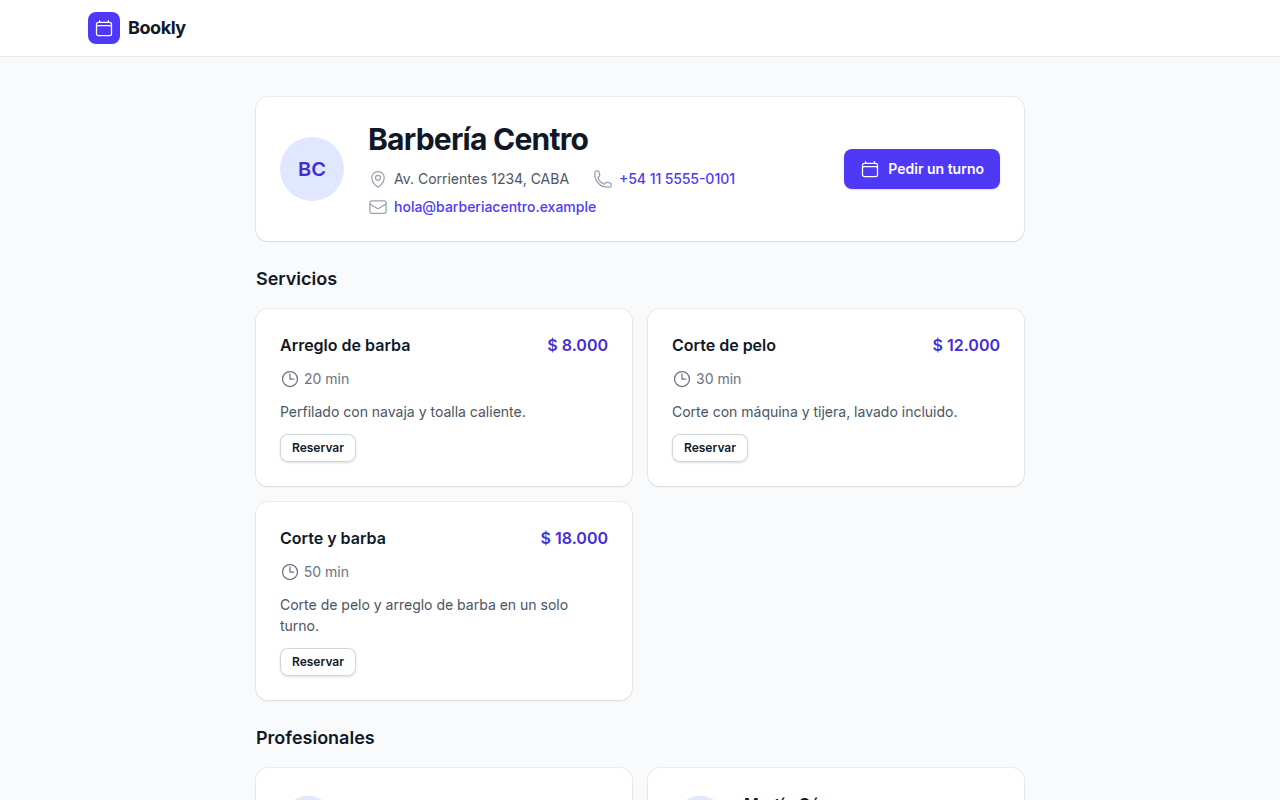
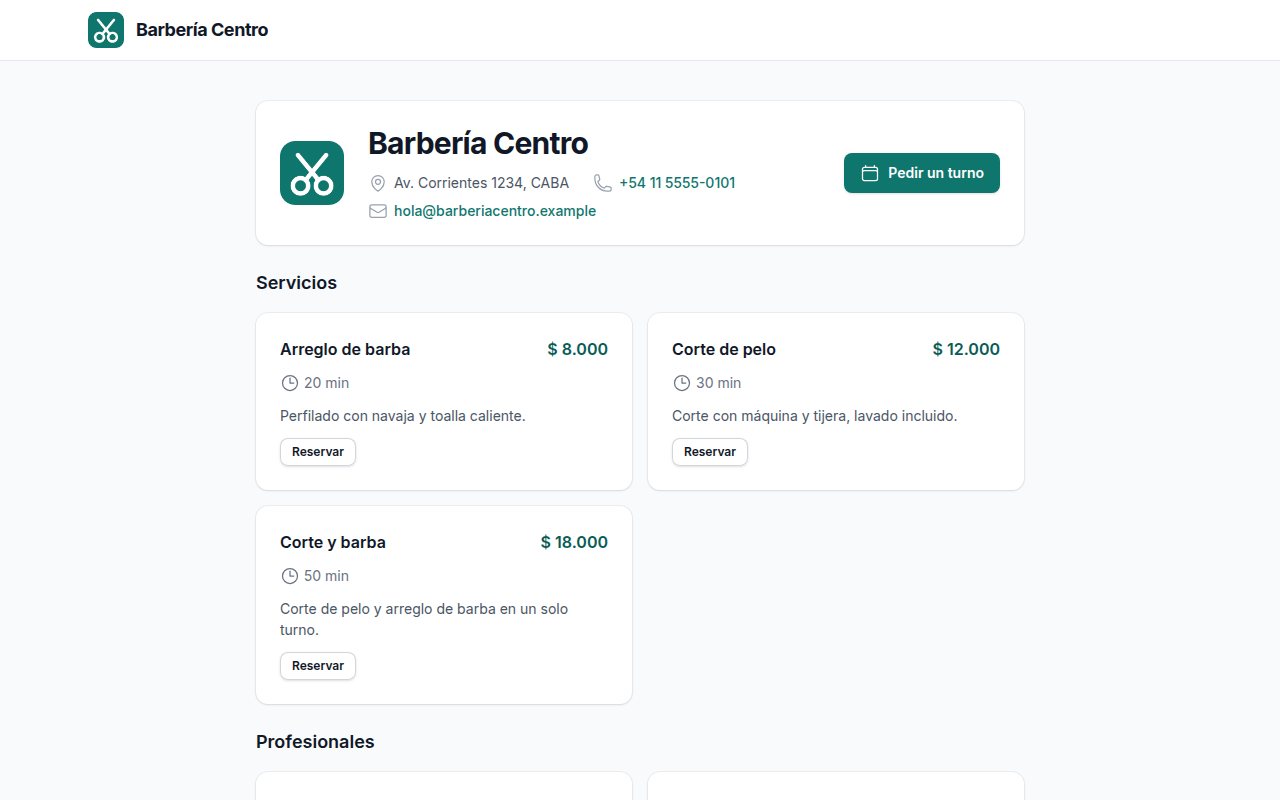
Document subdomains and branding, and seed each business's brand

diff --git a/db/seeds.rb b/db/seeds.rb
@@ -29,6 +29,18 @@ Business.find_or_create_by!(slug: "el-potrero") do |business|
   business.reminder_hours_before = 3
 end
 
+# Brands: a color each and a logo for two of them (db/seeds/logos), unless the
+# business already has its own.
+{ "barberia-centro" => [ "#0f766e", "barberia-centro.png" ],
+  "downtown-studio" => [ "#be185d", nil ],
+  "el-potrero" => [ "#15803d", "el-potrero.png" ] }.each do |slug, (color, logo)|
+  business = Business.find_by!(slug: slug)
+  business.update!(brand_color: color) if business.brand_color.nil?
+  if logo && !business.logo.attached?
+    business.logo.attach(io: Rails.root.join("db/seeds/logos", logo).open, filename: logo, content_type: "image/png")
+  end
+end
+
 # Users sign in with the password "password".
 def seed_member(business, role:, name:, email_address:)
   user = User.find_or_create_by!(email_address: email_address) do |new_user|

diff --git a/CLAUDE.md b/CLAUDE.md
@@ -6,7 +6,7 @@ This file provides guidance to Claude Code (claude.ai/code) when working with co
 
 Multi-tenant appointment booking app, built in stages. Done so far:
 
-- `Business` model (booking configuration, locale, time zone, active/suspended), tenant context (`Current.business`, `BusinessScoped`) and public business page at `/:business_slug`.
+- `Business` model (booking configuration, locale, time zone, active/suspended), tenant context (`Current.business`, `BusinessScoped`) and public business page (now on the business's subdomain).
 - Spanish/English i18n, with a language switcher on pages outside a business.
 - A shared UI layer (Tailwind theme, component classes, partials and three layouts) used by every page; see "UI conventions".
 - Users and authentication (Rails 8 generator), password reset, memberships with roles (`owner`/`admin`/`professional`), role changes and member removal, the business panel at `/:business_slug/admin`, and email invitations to join a business.
@@ -20,6 +20,7 @@ Multi-tenant appointment booking app, built in stages. Done so far:
 - Business sign up, the owner's setup assistant, the business's details in settings and the platform panel; see "Sign up, setup and platform panel". This completes the MVP.
 - Project documentation: the README (features, architecture, data model, design decisions, security, testing) with diagrams and screenshots in `doc/`; see "Documentation".
 - Business statistics in the panel, cached with Solid Cache; see "Statistics".
+- Public pages on each business's subdomain, and the business's brand (logo and color) on them and on customer emails; see "Routing" and "Branding".
 
 Owners sign up their business at `/signup`; everyone else joins a business by invitation.
 
@@ -41,7 +42,7 @@ bin/importmap audit            # JS dependency audit
 bin/ci                         # local CI pipeline defined in config/ci.rb
 ```
 
-Seeds (`bin/rails db:seed`) create three businesses (a barbershop, an English-speaking studio and a football court whose "professionals" are its pitches) with members, services, hours and appointments (plus, in Barbería Centro, a request about to expire, an appointment to mark attendance and a customer's pending change of time whenever there are none, and a rejected, a business-cancelled and an expired one for the email previews, plus the last 90 days of appointments with their history for the statistics, unless there are attended ones); every seeded user's password is `password`, and `admin@bookly.example` is a platform admin. Seeding emails nobody (`AppointmentNotifier.silence`). In development, sent emails are browsable at `/letter_opener`, and every email can be previewed with the seeded data at `/rails/mailers` (previews in `spec/mailers/previews`).
+Seeds (`bin/rails db:seed`) create three businesses (a barbershop, an English-speaking studio and a football court whose "professionals" are its pitches) with members, services, hours and appointments (plus, in Barbería Centro, a request about to expire, an appointment to mark attendance and a customer's pending change of time whenever there are none, and a rejected, a business-cancelled and an expired one for the email previews, plus the last 90 days of appointments with their history for the statistics, unless there are attended ones), and a brand color for each (logos from `db/seeds/logos` for Barbería Centro and El Potrero), unless they have their own; every seeded user's password is `password`, and `admin@bookly.example` is a platform admin. Seeding emails nobody (`AppointmentNotifier.silence`). In development, sent emails are browsable at `/letter_opener`, and every email can be previewed with the seeded data at `/rails/mailers` (previews in `spec/mailers/previews`).
 
 `bin/ci` (config/ci.rb) mirrors the GitHub workflow (.github/workflows/ci.yml): RuboCop, bundler-audit, importmap audit, Brakeman, and RSpec. The GitHub `test` job runs against a Postgres service via `DATABASE_URL`.
 
@@ -49,15 +50,16 @@ Seeds (`bin/rails db:seed`) create three businesses (a barbershop, an English-sp
 
 - The README is the project's documentation: features, architecture, data model, design decisions (multi-tenancy, availability and double booking, the appointment lifecycle, emails, live updates, time zones), security, testing and getting started. Update the parts a change touches, and the roadmap, with each stage.
 - `doc/architecture.svg` and `doc/class-diagram.svg` are hand-written SVG: edit the XML directly. Update the architecture for a new component, job, database or external service, and the class diagram for a new table, association, notable column or constraint. Check them rendered before committing: `google-chrome --headless=new --hide-scrollbars --window-size=1440,1300 --screenshot=/tmp/diagram.png file://$PWD/doc/class-diagram.svg`.
-- `doc/screenshots/` are taken from the seeded data, in Spanish, at 1280×800 (the phone one at 390×844, 2x), with headless Chrome. Retake the ones whose screen changes. Seed a scratch database for them, never the development one: `createdb`, then `DATABASE_URL=postgres:///<name> bin/rails db:schema:load:primary db:seed` and a server on another port with the same `DATABASE_URL`, then `dropdb`. Don't run `db:create`, `db:drop` or `db:schema:load` with only `DATABASE_URL`: it overrides the primary database alone, so they also act on `bookly_development_queue` and `_cable`.
+- `doc/screenshots/` are taken from the seeded data, in Spanish, at 1280×800 (the phone one at 390×844, 2x), with headless Chrome. Retake the ones whose screen changes. Seed a scratch database for them, never the development one: `createdb`, then `DATABASE_URL=postgres:///<name> bin/rails db:schema:load:primary db:seed` and a server on another port with the same `DATABASE_URL` (public pages at `http://<slug>.localhost:<port>`; emails link to port 3000, so point their images at that port), then `dropdb`. Don't run `db:create`, `db:drop` or `db:schema:load` with only `DATABASE_URL`: it overrides the primary database alone, so they also act on `bookly_development_queue` and `_cable`.
 
 ## Stack / architecture
 
 - **Database:** PostgreSQL (`bookly_development` / `bookly_test`, local socket, OS user). In production, Solid Cache/Queue/Cable each use a separate database (`bookly_production_cache`, `_queue`, `_cable`) with their own schemas in `db/*_schema.rb` and migration paths `db/{cache,queue,cable}_migrate`. Development does the same (`bookly_development_cache`, `_queue`, `_cable`); the test environment uses a single database with the `:test` job and cable adapters and a `:memory_store` cache (cleared before each example, `spec/support/cache.rb`).
 - **Background jobs, cache, websockets:** Solid Queue, Solid Cache, Solid Cable (DB-backed; no Redis). Jobs run in `bin/jobs` (started by `bin/dev`); recurring ones are scheduled in `config/recurring.yml`. In development the cache is Solid Cache only while `bin/rails dev:cache` has it on, `:null_store` otherwise (nothing cached, rate limits don't count). Solid Cable writes broadcasts from a background thread in batches, so a short-lived process (`bin/rails runner`) may exit before they're written; the web server and `bin/jobs` are fine.
+- **Hosts:** `config.x.app_host` is the app's domain (`BOOKLY_HOST`; `localhost` in development, `example.com` in test) and `action_dispatch.tld_length` follows it, so `request.subdomain` is a business's slug. Businesses' public pages are on its subdomains (`barberia-centro.localhost:3000`; browsers resolve `*.localhost`), everything else on the domain itself. Production only accepts those hosts (`config.hosts`).
 - **Frontend:** Hotwire (Turbo + Stimulus) via importmap — no Node/bundler. Stimulus controllers in `app/javascript/controllers` are auto-pinned. Add JS packages with `bin/importmap pin <pkg>`.
 - **CSS:** Tailwind 4 via `tailwindcss-rails`; source is `app/assets/tailwind/application.css`, compiled to `app/assets/builds/` (gitignored). Only classes found in views/helpers end up in the build, so keep `bin/dev` running (or `bin/rails tailwindcss:build`) after adding classes. Assets served by Propshaft.
-- **Testing:** RSpec (`spec/`) with FactoryBot; Minitest railtie is disabled and system test generation is turned off. Transactional fixtures are on. `FactoryBot::Syntax::Methods` is included (call `create`/`build` directly). Specs run in random order; `spec/examples.txt` persists status for `--only-failures`. Spec type is declared explicitly (`type: :request`, `type: :controller`); it is not inferred from the folder. `ActiveSupport::Testing::TimeHelpers` (`freeze_time`, `travel_to`) is included, and `spec/support/**` is auto-loaded. Request specs sign in with `sign_in_as(user)` (password `"password"`, the factory default).
+- **Testing:** RSpec (`spec/`) with FactoryBot; Minitest railtie is disabled and system test generation is turned off. Transactional fixtures are on. `FactoryBot::Syntax::Methods` is included (call `create`/`build` directly). Specs run in random order; `spec/examples.txt` persists status for `--only-failures`. Spec type is declared explicitly (`type: :request`, `type: :controller`); it is not inferred from the folder. `ActiveSupport::Testing::TimeHelpers` (`freeze_time`, `travel_to`) is included, and `spec/support/**` is auto-loaded. Request specs sign in with `sign_in_as(user)` (password `"password"`, the factory default). They run on `www.example.com` (the app's domain); specs of a business's public pages switch to its host first with `use_business_host(business)` (`spec/support/business_host_helpers.rb`) and call the public route helpers without the business.
 - **i18n:** `es` (default) and `en`. Translations live in `config/locales/{es,en}/` — `app.yml`, `models/<model>.yml`, `views/<controller>.yml` (namespaced controllers in `views/admin/` and `views/platform/`), `mailers/<mailer>.yml` — and every user-facing string (views, mailers, validation messages, flash) goes through `t()`. Missing translations raise in development and test, and `spec/config/i18n_spec.rb` fails if `es` and `en` don't define the same keys. Enum values are translated as attributes (`membership/role`) and read with `Model.human_attribute_name("role.#{value}")`.
 - **Locale selection:** pages tied to a business (public page, panel, invitation) use the business's locale. Everywhere else `SetLocale` picks the language switcher's choice (`locale` cookie, set by `PATCH /locale`), then the browser's `Accept-Language`, then `es`. The switcher shows where `locale_switchable?` is true. Emails about a business are rendered in its locale: `BusinessMailer` sets it (invitations use `I18n.with_locale(business.locale)`).
 - **Deployment:** Kamal (`config/deploy.yml`, `.kamal/secrets`) building the `Dockerfile`, served through Thruster. `RAILS_MASTER_KEY` is read from `config/master.key` (gitignored); production DB password comes from `BOOKLY_DATABASE_PASSWORD`.
@@ -66,7 +68,7 @@ Seeds (`bin/rails db:seed`) create three businesses (a barbershop, an English-sp
 
 Every page is built from the shared pieces below; don't hand-roll styles that already exist, and don't ship bare pages (use cards, page headers and empty states).
 
-- **Theme** (`@theme` in `app/assets/tailwind/application.css`): `brand-50…900` (indigo) for anything branded, Inter as `font-sans`, `shadow-card`. Use `brand-*`, not raw `indigo-*`, so the theme changes in one place. Light gray page background, white cards.
+- **Theme** (`@theme` in `app/assets/tailwind/application.css`): `brand-50…900` (indigo) for anything branded, Inter as `font-sans`, `shadow-card`. Use `brand-*`, not raw `indigo-*`, so the theme changes in one place and public pages take the business's color (see "Branding"). Light gray page background, white cards.
 - **Component classes** (declared with `@utility`, so they compose and take variants like `sm:`):
   - Buttons: `btn-primary`, `btn-secondary`, `btn-danger`, `btn-ghost`; modifiers `btn-sm`, `btn-block`. Destructive inline actions: `btn-ghost btn-sm text-red-600 hover:bg-red-50`.
   - Forms: wrap each field in `.field`, with `.label`, `.input` (also for `select`) and `.hint`. Forms sit in a `card card-body space-y-5`; actions go right-aligned at the bottom.
@@ -129,17 +131,17 @@ Every page is built from the shared pieces below; don't hand-roll styles that al
 - `Availability.new(service, professional: nil, except: nil, now:)` computes free start times in the current business: `days(dates)` returns `{ date => [Slot(starts_at, professionals)] }` for the days within the booking window. Start times are counted from the start of each working range every `slot_interval_minutes`; the service must fit in the range (its break may run past it), can't overlap a block, and service plus break can't overlap an active appointment's time plus break. From now plus `min_booking_notice_hours` up to `booking_horizon_days` from today. Without a professional it means "any": each slot lists who is free. Three queries per call, whatever the range. `slot_at(starts_at)` is the free slot at a start time (or nil); `candidates(starts_at)` who is free then, the least busy that day first; `except:` leaves an appointment's own time out (the one a customer is moving).
 - `Customer#busy_during?(range, except:)`: whether the customer has an active appointment overlapping the range (a customer can't be in two places at once).
 - Business settings are read from `Current.business` (`Current.business!`), not from a record's cached `business` association, so they're always current and it fails closed.
-- Settings (owner only) has two tabs (`admin/settings/_tabs`): the business's details (`Admin::BusinessesController`: name, contact, address, time zone, language, currency; not the slug, which customers' links depend on) and the booking rules (`Admin::SettingsController`: the six rules and the reminder, `reminder_hours_before`, capped by `Business::BOOKING_LIMITS`). The sidebar's settings link opens the first.
+- Settings (owner only) has three tabs (`admin/settings/_tabs`): the business's details (`Admin::BusinessesController`: name, contact, address, time zone, language, currency; not the slug, which customers' links depend on), the booking rules (`Admin::SettingsController`: the six rules and the reminder, `reminder_hours_before`, capped by `Business::BOOKING_LIMITS`) and the brand (`Admin::BrandingsController`, see "Branding"). The sidebar's settings link opens the first.
 - Availability preview (`Admin::AvailabilitiesController`): owners and admins pick a service and a professional (or any); professionals see their own. Days without free times say why. The week is the `availabilities/_week` partial (`slot_url:` makes each time a link, `show_professionals: false` hides who is free); `availabilities/_week_navigation` (the booking window's limits and the empty week notice, around the generic `shared/_week_navigation`) and the `AvailabilityWeek` concern (`load_availability_week`) handle moving between weeks, for the panel and the public flow.
 - `AppointmentEvent`: an appointment's history, one row per status change (none as `from_status` on creation), with the actor (`customer`, `user` with `actor_user`, or `system`), an optional `note` and `metadata`. Read only once saved; `appointment.events` is chronological. Record one for every transition.
 - `appointments_helper#appointment_status_badge` shows a status with its badge color; `appointment_event_title` and `appointment_event_actor` describe a history entry.
 
 ## Public booking
 
-- `BookingsController` (`/:business_slug/book`, public): one step at a time, service → professional ("any" or one; skipped when a single one offers the service) → time → contact details. The choices travel in the URL (`service_id`, `professional_id`, `starts_at` in ISO 8601, `week`); anything invalid, not bookable, from another business or no longer free sends the customer back to the step that needs it. The public page links into it per service and per professional.
+- `BookingsController` (`/book` on the business's subdomain, public): one step at a time, service → professional ("any" or one; skipped when a single one offers the service) → time → contact details. The choices travel in the URL (`service_id`, `professional_id`, `starts_at` in ISO 8601, `week`); anything invalid, not bookable, from another business or no longer free sends the customer back to the step that needs it. The public page links into it per service and per professional.
 - `AppointmentRequest` (form object) sends the request in its own transaction (`requires_new`): checks the slot again against `Availability`, finds the customer by email (updating name and phone; a blank phone keeps the old one), rejects a customer's overlapping active appointment, creates the pending appointment and its creation event. With "any professional" it assigns the free one with the fewest active appointments that day (then by name), sets `any_professional`, and tries the next one if the database rejects the first (`slot_taken?` when none is left).
-- `POST /:business_slug/book` is rate limited per IP (10 every 10 minutes). The test cache is a memory store cleared before each example, so rate limits can be tested.
-- `Appointment` has `generates_token_for :management` with no embedded data: the customer's personal link stays valid for the appointment's whole life. `AppointmentsController#show` (`/:business_slug/appointments/:token`, public, `noindex`) finds it within the current business (404 otherwise) and shows its status, details, the business's reason when it rejected or cancelled it, a note when it was reassigned, the change of time it waits for, what the customer can still do, and the business's contact.
+- `POST /book` is rate limited per IP (10 every 10 minutes). The test cache is a memory store cleared before each example, so rate limits can be tested.
+- `Appointment` has `generates_token_for :management` with no embedded data: the customer's personal link stays valid for the appointment's whole life. `AppointmentsController#show` (`/appointments/:token` on the business's subdomain, public, `noindex`) finds it within the current business (404 otherwise) and shows its status, details, the business's reason when it rejected or cancelled it, a note when it was reassigned, the change of time it waits for, what the customer can still do, and the business's contact.
 - The time step refreshes itself when an appointment changes, so a time someone else takes disappears (see "Live updates").
 
 ## Appointment management by link
@@ -172,7 +174,7 @@ Every page is built from the shared pieces below; don't hand-roll styles that al
 - `AppointmentEvent` runs `AppointmentNotifier` after commit, so every transition (panel, customer, `ExpireRequestsJob`) emails the right people, nothing goes out for a rolled back change, and mails are delivered by a job (`deliver_later`). `AppointmentNotifier.silence { ... }` turns it off (seeds).
 - `CustomerAppointmentsMailer` (the customer, with their personal link): `requested`, `confirmed`, `rejected` and `cancelled` (with the business's reason; the customer's own cancellation is a receipt, without their reason), `expired`, `rescheduled`, `reassigned` and `reminder`. Not attendance. They share one template (`appointment`): each action sets `@body`, `@reason`, `@button` and `@footer`. Ended appointments offer booking the same service again.
 - `TeamAppointmentsMailer`, only for what customers do: `new_request`, `customer_rescheduled` and `customer_cancelled`, one email per `Appointment#team_recipients` (the professional's user, the owner and the admins, each once), linking to the panel; replies go to the customer. What the team does in the panel emails nobody on the team: they see it live.
-- `.ics` (`AppointmentCalendar`, `icalendar` gem): times in UTC, a fixed `UID` per appointment and `SEQUENCE` = its number of events, so newer files update the event; `cancelled: true` makes a `METHOD:CANCEL`. Attached to `confirmed`, `reminder` and `reassigned` (when confirmed), and as a cancellation to `cancelled` (of a confirmed appointment) and `rescheduled`. Customers download it from `/:business_slug/appointments/:token.ics` (confirmed only, 404 otherwise; `text/calendar` is registered as `:ics`).
+- `.ics` (`AppointmentCalendar`, `icalendar` gem): times in UTC, a fixed `UID` per appointment and `SEQUENCE` = its number of events, so newer files update the event; `cancelled: true` makes a `METHOD:CANCEL`. Attached to `confirmed`, `reminder` and `reassigned` (when confirmed), and as a cancellation to `cancelled` (of a confirmed appointment) and `rescheduled`. Customers download it from `/appointments/:token.ics` (confirmed only, 404 otherwise; `text/calendar` is registered as `:ics`).
 - Reminders: `SendRemindersJob` runs every 5 minutes and emails `Appointment.due_for_reminder` (confirmed, not started, in active businesses with `reminder_hours_before` > 0, once that many hours before the start), marking `reminder_sent_at` with a conditional update first so a reminder is never sent twice. An appointment confirmed after its reminder was due gets none (the confirmation just told the customer); `reschedule!` clears `reminder_sent_at`. The `reminder` email isn't sent if the appointment stopped being confirmed meanwhile.
 
 ## Sign up, setup and platform panel
@@ -188,6 +190,13 @@ Every page is built from the shared pieces below; don't hand-roll styles that al
 - `BusinessStats.new(membership, period).to_h` returns plain values (no records, so it can be cached): `outcomes` (every status), `no_show_rate`, `revenue_cents` (copied prices of attended appointments), `top_services`, `occupancy` (booked minutes of `on_agenda` appointments against the current weekly hours on each day, less blocks; managers see active professionals and anyone with appointments in the period), `peak_hours` (`{ [wday, hour] => count }` in the business's zone), `customers` (`new` when their first booked appointment is in the period) and `response_time` (median seconds from becoming pending to the team's confirm or reject, from `AppointmentEvent`; reassignments don't restart it). Everything comes from `Membership#visible_appointments`, and appointments belong to the period they start in. Each number is an aggregate query: keep it that way, no loading records into Ruby.
 - `BusinessStats.fetch(membership, period)` reads it through `Rails.cache`, adding `calculated_at`. The key is the business, the period's `cache_key`, the viewer (managers share one entry, each professional their own) and `BusinessStats::VERSION`: bump it when `to_h` changes shape. No invalidation on changes: entries expire (`CURRENT_PERIOD_EXPIRES_IN` 10 minutes, `CLOSED_PERIOD_EXPIRES_IN` a day).
 
+## Branding
+
+- A business's brand is `brand_color` (`#rrggbb`, lowercase, nil for Bookly's; validated by format, by a check constraint and by `BrandColor#readable_with_white_text?`: at least 4.5:1 against white, since buttons have white text) and a `logo` attachment (JPG/PNG/WebP up to `Business::LOGO_MAX_SIZE`, never SVG). `BrandColor::DEFAULT` is Bookly's indigo.
+- Edited in the settings' brand tab (`Admin::BrandingsController`, owner only; `remove_logo` drops the logo unless a new one comes too), with a live preview (`brand-preview` Stimulus controller).
+- Public pages: the `application` layout puts `brand_style_tag(branded_business)` (`BrandingHelper`) in the head, which overrides the `--color-brand-*` theme variables: the color itself as `brand-600` and `color-mix()` shades for the rest. So keep using `brand-*` utilities on public pages; raw colors won't follow the brand. The header shows the business's logo and name (`layouts/shared/_business_logo`). `branded_business` is the current business only while it's active; the panel never takes the brand.
+- Emails: `CustomerAppointmentsMailer` sets `@branded_business`, so the `mailer` layout shows its logo (absolute blob URL) and name, and `email_button`/`email_brand_color` (`MailerHelper`) its color. Other mailers keep Bookly's.
+
 ## Multi-tenancy
 
 Single database, shared tables: every per-business table has a `business_id`, and the current tenant lives in `Current.business`.
@@ -202,7 +211,8 @@ Single database, shared tables: every per-business table has a `business_id`, an
 
 ## Routing
 
-- `/` is the landing page (`HomeController`). Global app routes (`/session`, `/passwords`, `/locale`, `/dashboard`, `/invitations`, `/signup`, `/platform`, `/letter_opener` in development) come before the business scope. Public business pages live under `scope ":business_slug"` at the end of `config/routes.rb`, constrained by `Business::SLUG_FORMAT`.
-- Controllers under that scope `include SetCurrentBusiness`: it resolves the business from the slug (404 if unknown), sets `Current.business`, wraps the request in the business's locale and time zone, and renders `businesses/unavailable` (503, always with the public layout) for suspended businesses.
-- Any new top-level path must be added to `Business::RESERVED_SLUGS` so no business can take it as a slug.
+- Two host blocks in `config/routes.rb`. A business's public pages (`/`, `/book`, `/appointments/:token...`) are constrained to its subdomain (`Business.subdomain?`: a valid slug that isn't reserved; whether the business exists is checked later). Everything else is constrained to the app's domain, with or without `www`: `/` is the landing page (`HomeController`), then the global app routes (`/session`, `/passwords`, `/locale`, `/dashboard`, `/invitations`, `/signup`, `/platform`, `/letter_opener` in development), and last `scope ":business_slug"` (constrained by `Business::SLUG_FORMAT`) with the panel and the old public paths, which redirect (301, keeping the query) to the subdomain. Sign in and the panel never answer on a business's subdomain, so the session cookie stays on one host.
+- Links to public pages from another host (the panel, the platform, emails) use `_url` helpers with `public_url_options(business)` (`PublicUrlsHelper`: the subdomain, and clears the panel's `business_slug` default, which would otherwise become a query parameter). On the public pages themselves, plain `_path` helpers.
+- Controllers serving them `include SetCurrentBusiness`: it resolves the business from the panel's `business_slug` or the host's subdomain (404 if unknown), sets `Current.business`, wraps the request in the business's locale and time zone, and renders `businesses/unavailable` (503, always with the public layout) for suspended businesses.
+- `Business::RESERVED_SLUGS` covers the app's top-level paths and the subdomains the domain needs (`www`, `mail`, `app`, ...): add any new top-level path or reserved subdomain there so no business can take it as a slug.
 - Times are stored in UTC and displayed in the business time zone (`Time.zone` is the business's inside a request; the app default is UTC).

diff --git a/README.md b/README.md
@@ -4,7 +4,7 @@ Online appointment booking for businesses that work by schedule: barbershops, cl
 
 Built with Rails 8.1, Ruby 3.4, PostgreSQL, Hotwire and Tailwind 4. No Node, no Redis.
 
-![Booking an appointment: the week of free times for a haircut with any professional](doc/screenshots/booking-times.png)
+![Booking an appointment on the barbershop's subdomain: the week of free times for a haircut with any professional, in its colors](doc/screenshots/booking-times.png)
 
 ## Table of Contents
 
@@ -14,6 +14,7 @@ Built with Rails 8.1, Ruby 3.4, PostgreSQL, Hotwire and Tailwind 4. No Node, no 
 - [Data model](#data-model)
 - [Design decisions](#design-decisions)
   - [Multi-tenancy](#multi-tenancy)
+  - [Subdomains and branding](#subdomains-and-branding)
   - [Availability and double booking](#availability-and-double-booking)
   - [Appointment lifecycle](#appointment-lifecycle)
   - [Emails, calendar files and reminders](#emails-calendar-files-and-reminders)
@@ -30,7 +31,7 @@ Built with Rails 8.1, Ruby 3.4, PostgreSQL, Hotwire and Tailwind 4. No Node, no 
 
 **For customers** (no account needed)
 
-- **Booking in four steps** from the business's page: service, professional (or "any"), a free time and contact details. With "any professional" the least busy free one is assigned. The request holds the time until the business answers.
+- **Booking in four steps** from the business's page, on its own subdomain and with its logo and color: service, professional (or "any"), a free time and contact details. With "any professional" the least busy free one is assigned. The request holds the time until the business answers.
 - **A personal link** to follow the appointment: its status, the business's reason if it was rejected or cancelled, a calendar file once it's confirmed, and the business's contact. The page updates by itself when the business answers.
 - **Cancel or reschedule** a confirmed appointment, or withdraw a request, until the business's cancellation window closes. Rescheduling frees the old time at once and waits for the business's confirmation again.
 - **Emails for every change** (request received, confirmed, rejected, cancelled, expired, moved to another professional, change of time received) and a reminder before the appointment, with `.ics` files that keep the customer's calendar up to date.
@@ -44,7 +45,8 @@ Built with Rails 8.1, Ruby 3.4, PostgreSQL, Hotwire and Tailwind 4. No Node, no 
 - **Services and professionals:** duration, price, optional break and rich text description; profiles with photo, offered services and an optional linked account. Neither is ever deleted, only deactivated.
 - **Weekly hours and blocks:** several ranges per day, and blocks for vacations or errands (exact times or whole days).
 - **Team and roles:** the owner invites admins and professionals by email (single use links, valid for 7 days), changes their roles and removes them. Owners and admins manage everything; professionals answer and manage their own appointments.
-- **Settings:** the business's details (name, contact, address, time zone, language, currency) and its booking rules: start interval, break between appointments, minimum notice, booking horizon, request expiration, cancellation window and reminder.
+- **Their own address and brand:** each business's page lives on its subdomain (`barberia-centro.<domain>`), and its logo and color dress its public pages and the emails its customers get.
+- **Settings:** the business's details (name, contact, address, time zone, language, currency), its booking rules (start interval, break between appointments, minimum notice, booking horizon, request expiration, cancellation window and reminder) and its brand (logo and color, with a live preview).
 - **Emails to the team** when customers request, reschedule or cancel; replies go straight to the customer.
 
 **For the platform**
@@ -60,16 +62,20 @@ Built with Rails 8.1, Ruby 3.4, PostgreSQL, Hotwire and Tailwind 4. No Node, no 
 
 | | |
 |---|---|
-| ![The business's public page, with its services and prices](doc/screenshots/business-page.png) | ![The panel's home: pending requests, one of them a change of time, and today's appointments](doc/screenshots/panel-dashboard.png) |
-| **Public page:** services, prices and the business's contact | **Panel home:** requests waiting for an answer and today's appointments |
+| ![The business's public page, with its logo, its color, its services and prices](doc/screenshots/business-page.png) | ![The panel's home: pending requests, one of them a change of time, and today's appointments](doc/screenshots/panel-dashboard.png) |
+| **Public page** on the business's subdomain, with its logo and color | **Panel home:** requests waiting for an answer and today's appointments |
 | ![The weekly agenda with pending and confirmed appointments](doc/screenshots/panel-agenda.png) | ![The setup assistant asking who takes the appointments](doc/screenshots/setup-assistant.png) |
 | **Agenda:** the week, by professional or of everyone, refreshing live | **Setup assistant:** from sign up to a bookable page |
-| ![A confirmed appointment on a phone, with the add to calendar button](doc/screenshots/customer-appointment-mobile.png) | ![The confirmation email of a football court booking](doc/screenshots/email-confirmed.png) |
-| **The customer's link** on a phone: status, details, calendar file, cancel or reschedule | **Confirmation email** in the business's name, with the `.ics` attached |
+| ![A confirmed appointment on a phone, with the add to calendar button](doc/screenshots/customer-appointment-mobile.png) | ![The confirmation email of a football court booking, with its logo and color](doc/screenshots/email-confirmed.png) |
+| **The customer's link** on a phone: status, details, calendar file, cancel or reschedule | **Confirmation email** in the business's name and brand, with the `.ics` attached |
 
 ![The statistics page: attended appointments, revenue, no-shows, response time, appointments by status and each professional's occupancy](doc/screenshots/panel-statistics.png)
 
 **Statistics:** the month's numbers for the whole business, from the cache
+
+![The brand settings: logo, color picker and a preview of the business's header and a button](doc/screenshots/panel-branding.png)
+
+**Brand:** the logo and color, previewed as they're edited
 
 ![The platform panel listing every business with its owner, members and appointments](doc/screenshots/platform.png)
 
@@ -79,8 +85,8 @@ Built with Rails 8.1, Ruby 3.4, PostgreSQL, Hotwire and Tailwind 4. No Node, no 
 
 Bookly is a single Rails app rendering HTML. Hotwire does the rest on the client: Turbo Drive for navigation and forms, Turbo 8 page refreshes for live updates and a few Stimulus controllers.
 
-- **Three areas, one app.** Public pages live under `/:business_slug` (the business page, the booking steps, the customer's link), the business panel under `/:business_slug/admin`, and the platform panel under `/platform`. Global routes (`/session`, `/signup`, `/dashboard`, ...) come first, and their names are reserved so no business can take them as a slug.
-- **The tenant comes from the URL.** `SetCurrentBusiness` finds the business by its slug, sets `Current.business` and wraps the request in its language and time zone. Every per-business model includes `BusinessScoped`, which filters each query by the current business and fails closed: with no business set, a query raises instead of returning everyone's rows.
+- **Three areas, one app.** Public pages live on the business's subdomain (`barberia-centro.<domain>`: the business page, the booking steps, the customer's link); everything else on the app's own domain: the business panel under `/:business_slug/admin`, the platform panel under `/platform` and the global routes (`/session`, `/signup`, `/dashboard`, ...), whose names are reserved so no business can take them as a slug.
+- **The tenant comes from the host or the URL.** `SetCurrentBusiness` finds the business by the subdomain (public pages) or the panel's slug, sets `Current.business` and wraps the request in its language and time zone. Every per-business model includes `BusinessScoped`, which filters each query by the current business and fails closed: with no business set, a query raises instead of returning everyone's rows.
 - **Domain logic in models and form objects.** `Availability` computes free times; `Appointment` owns its transitions (each one locks the row, checks the status, saves and records an `AppointmentEvent` in one transaction); form objects (`AppointmentRequest`, `AppointmentReschedule`, `BusinessRegistration`, `SetupHours`) handle what spans several records.
 - **Side effects after commit.** An `AppointmentEvent` notifies the right people when its transaction commits, and an appointment broadcasts a refresh. A rolled back change emails nobody and refreshes nothing.
 - **Solid Queue, Solid Cable and Solid Cache** replace Redis: jobs, websocket messages and cache live in their own PostgreSQL databases. `bin/jobs` runs the job workers and two recurring jobs: `ExpireRequestsJob` every minute and `SendRemindersJob` every five minutes. The cache holds the statistics and the rate limits' counters.
@@ -106,9 +112,15 @@ One database with shared tables, a `business_id` on every per-business row, and 
 
 1. **Queries:** `BusinessScoped` filters by the current business and assigns it to new records. It fails closed (`Current::MissingBusiness`), also through associations, so a job or console session that forgets to set the tenant breaks loudly instead of touching every business.
 2. **Database:** composite foreign keys make mixed rows impossible, whatever the code does.
-3. **Requests:** the business comes from the URL, never from a parameter; panel queries also go through the member's permissions (`Membership#visible_appointments`), and anything outside them is a 404.
+3. **Requests:** the business comes from the host or the path, never from a parameter; panel queries also go through the member's permissions (`Membership#visible_appointments`), and anything outside them is a 404.
 
 Code that legitimately spans businesses (the expiration and reminder jobs, the platform panel) opts out explicitly with `BusinessScoped.across_businesses { ... }`, so cross-tenant access stays greppable. A schema-per-business version is on the roadmap as a comparative exercise.
+
+### Subdomains and branding
+
+A business's public pages are served from its subdomain, so its customers get an address of its own. Two route blocks split the hosts: one constrained to subdomains that could be a business's (a valid slug that isn't reserved: `www`, `mail`, `admin`, ...) and one to the app's own domain. Only the public pages moved; the panel stays on the app's domain at `/:business_slug/admin`, so the session cookie lives on a single host and is never shared with pages a business's customers visit. The old `/:business_slug/...` paths, which emails already sent still link to, redirect permanently to the same page on the subdomain. The domain comes from `BOOKLY_HOST` (`*.localhost` in development, which browsers resolve on their own), and links to a public page from another host (the panel, the platform, emails) add the subdomain with `public_url_options(business)`.
+
+The brand is a logo and one color. The color replaces the theme's `brand-*` scale on the business's pages: Tailwind's utilities read it from CSS variables, so the layout sets the color itself as `brand-600` and derives lighter and darker shades with `color-mix()`, and every existing button, link and badge follows without touching a view. Buttons carry white text, so the color must contrast with white at least 4.5:1 (WCAG AA), checked when it's saved. Customer emails take the logo and the color in inline styles; the panel and the team's emails keep Bookly's. Custom domains (`turnos.mibarberia.com`) are left for after deployment, since they need a certificate per domain and DNS verification.
 
 ### Availability and double booking
 
@@ -158,19 +170,22 @@ Instants are stored in UTC and shown in the business's time zone; inside a reque
 
 ## Security
 
-- **Authentication** comes from the Rails 8 generator: bcrypt passwords, a signed, `httponly` session cookie and password reset by email. Authentication is required by default; public controllers opt out explicitly.
+- **Authentication** comes from the Rails 8 generator: bcrypt passwords, a signed, `httponly` session cookie and password reset by email. Sign in and the panel only answer on the app's own domain, so the cookie is never sent to a business's subdomain. Authentication is required by default; public controllers opt out explicitly.
 - **Access is checked per area.** Non-members get a 404 from a business's panel, and anyone without `platform_admin` gets a 404 from `/platform`, so neither reveals what exists. Inside the panel, owner and manager actions are guarded per action, and professionals only see their own appointments.
 - **Tokens instead of stored secrets.** Invitation and appointment links use `generates_token_for`: invitations embed their acceptance and expiration, so a link works once and resending voids the previous one; nothing reusable is stored in the database.
 - **Rate limits** per IP on sign in, password reset, sign up, booking, cancelling and rescheduling.
 - **The customer's pages** aren't indexed by search engines (`noindex`), and websocket streams only accept signed names.
+- **Uploads** are limited by type and size: photos and logos are JPG, PNG or WebP, never SVG, which can carry scripts. Brand colors are validated as `#rrggbb` (and by a check constraint) before they're written into a page's CSS.
+- **Hosts:** in production, only the app's domain and its subdomains are accepted (`config.hosts`).
 - **The database enforces the invariants** the code relies on: composite foreign keys between businesses, exclusion constraints against double booking and check constraints mirroring the validations.
 - **CI** runs Brakeman, bundler-audit and importmap audit on every push.
 
 ## Testing
 
-- **RSpec** with FactoryBot: about 830 examples covering models, form objects, jobs, mailers, helpers and requests. Request specs exercise the full stack (routing, tenancy, permissions, rendering) against a real PostgreSQL database, with no mocks of the database: the exclusion and check constraints are tested too.
+- **RSpec** with FactoryBot: about 870 examples covering models, form objects, jobs, mailers, helpers and requests. Request specs exercise the full stack (routing, tenancy, permissions, rendering) against a real PostgreSQL database, with no mocks of the database: the exclusion and check constraints are tested too.
 - **Time is frozen** (`travel_to`) wherever the result depends on it: availability, expiration, reminders, the agenda, the statistics' periods.
 - **The statistics** are tested metric by metric against hand-built histories (the period's edges in the business's time zone, prices copied at booking, reassignments that don't restart the response clock), and their cache by its hits, its expirations and the entries each member and business gets.
+- **Hosts** are tested explicitly: what each one serves (a business's subdomain, the app's domain with or without `www`, reserved and unknown subdomains) and the old paths' redirects.
 - **Live updates** are tested by checking which signed streams each page subscribes to, and the broadcasts each change makes.
 - **Emails** are tested in both languages and time zones, including their `.ics` attachments, and every email has a preview at `/rails/mailers` built from the seeded data.
 - **CI** (GitHub Actions, mirrored locally by `bin/ci`) runs RuboCop, the three audits and the suite.
@@ -183,7 +198,7 @@ Instants are stored in UTC and shown in the business's time zone; inside a reque
 - Tailwind CSS 4 (`tailwindcss-rails`), Propshaft
 - Solid Queue, Solid Cable and Solid Cache
 - Action Mailer with `letter_opener_web` in development, `icalendar` for the `.ics` files
-- Action Text (service descriptions) and Active Storage (professionals' photos)
+- Action Text (service descriptions) and Active Storage (professionals' photos and business logos)
 - `rails-i18n`, with Spanish and English
 - RSpec, FactoryBot, RuboCop (rails-omakase), Brakeman, bundler-audit
 - Kamal, Docker and Thruster for deployment
@@ -205,15 +220,19 @@ bin/dev                   # web server on http://localhost:3000, background jobs
 
 Background jobs (Solid Queue, `bin/jobs`), live updates (Solid Cable) and the cache (Solid Cache) use their own databases in development too (`bookly_development_queue`, `bookly_development_cable` and `bookly_development_cache`, created by `bin/setup`). `bin/dev` runs the jobs; without them requests don't expire, reminders aren't sent and no email goes out.
 
+Businesses' public pages are on subdomains of `localhost` (http://barberia-centro.localhost:3000), which browsers resolve without touching `/etc/hosts`; the panel and everything else stay on http://localhost:3000. Set `BOOKLY_HOST` to use another domain.
+
 Caching is off in development until `bin/rails dev:cache` turns it on (run it again to turn it off). While it's off, the statistics are calculated on every visit and rate limits don't count.
 
 ### Sample data
 
 Sample businesses:
 
-- http://localhost:3000/barberia-centro — a barbershop, in Spanish (Buenos Aires)
-- http://localhost:3000/downtown-studio — a hair studio, in English (New York)
-- http://localhost:3000/el-potrero — a football court, in Spanish (Buenos Aires), whose "professionals" are its pitches, booked by the hour
+- http://barberia-centro.localhost:3000 — a barbershop, in Spanish (Buenos Aires)
+- http://downtown-studio.localhost:3000 — a hair studio, in English (New York)
+- http://el-potrero.localhost:3000 — a football court, in Spanish (Buenos Aires), whose "professionals" are its pitches, booked by the hour
+
+Each has a brand color, and Barbería Centro and El Potrero a logo too.
 
 Sample users, all with the password `password` (sign in at http://localhost:3000/session/new):
 
@@ -259,6 +278,7 @@ bin/ci              # RuboCop, bundler-audit, importmap audit, Brakeman and RSpe
 After the MVP, step by step:
 
 - [x] Business statistics, cached with Solid Cache
-- [ ] Subdomains and branding
+- [x] Subdomains and branding
 - [ ] Schema-per-business migration (comparative exercise)
 - [ ] Deployment
+- [ ] Custom domains for businesses
